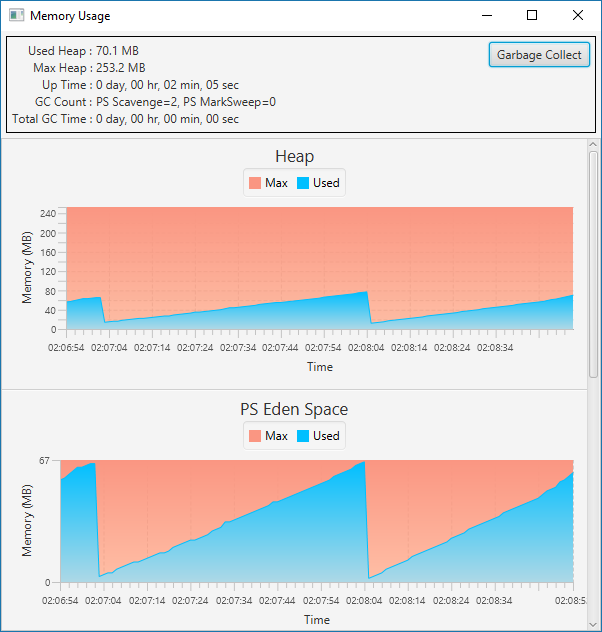
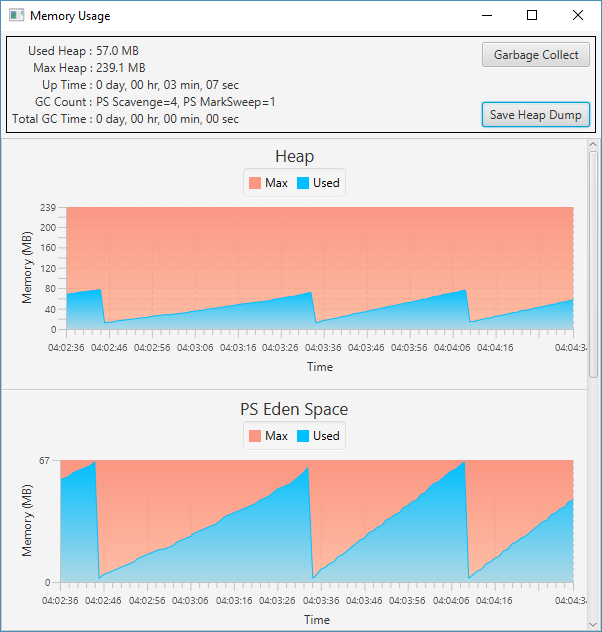
Added heap dump feature

diff --git a/src/main/java/MemoryViewPane.java b/src/main/java/MemoryViewPane.java
@@ -12,6 +12,7 @@ import javafx.scene.control.Button;
 import javafx.scene.control.Label;
 import javafx.scene.control.ScrollPane;
 import javafx.scene.control.Separator;
+import javafx.scene.layout.AnchorPane;
 import javafx.scene.layout.Border;
 import javafx.scene.layout.BorderPane;
 import javafx.scene.layout.BorderStroke;
@@ -24,7 +25,9 @@ import javafx.scene.layout.Priority;
 import javafx.scene.layout.VBox;
 import javafx.scene.paint.Color;
 import javafx.scene.text.TextAlignment;
+import javafx.stage.FileChooser;
 
+import java.io.File;
 import java.lang.management.GarbageCollectorMXBean;
 import java.lang.management.ManagementFactory;
 import java.lang.management.MemoryMXBean;
@@ -37,33 +40,32 @@ import java.util.List;
 
 public class MemoryViewPane extends BorderPane {
 
-    private Timeline animation;
-    private List<MemoryUsageChart> memoryUsageCharts = new ArrayList<>();
-    private StringProperty totalUsedHeap = new SimpleStringProperty();
-    private StringProperty gcCollectionCount = new SimpleStringProperty();
-    private StringProperty gcCollectionTime = new SimpleStringProperty();
-    private StringProperty maxHeap = new SimpleStringProperty();
-    private StringProperty uptTime = new SimpleStringProperty();
-    private MemoryMXBean memoryMBean;
+    private final Timeline animation;
+    private final List<MemoryUsageChart> memoryUsageCharts = new ArrayList<>();
+    private final StringProperty totalUsedHeap = new SimpleStringProperty();
+    private final StringProperty gcCollectionCount = new SimpleStringProperty();
+    private final StringProperty gcCollectionTime = new SimpleStringProperty();
+    private final StringProperty maxHeap = new SimpleStringProperty();
+    private final StringProperty uptTime = new SimpleStringProperty();
+    private final MemoryMXBean memoryMBean;
 
 
     public MemoryViewPane() {
         memoryMBean = ManagementFactory.getMemoryMXBean();
-        //setPadding(new Insets(5));
         setTop(createControlPanel());
-        VBox box = createMainContent();
+        Pane box = createMainContent();
         ScrollPane scrollPane = new ScrollPane(box);
         scrollPane.setFitToWidth(true);
         setCenter(scrollPane);
         final KeyFrame frame =
                 new KeyFrame(javafx.util.Duration.millis(1_000),
-                        (ActionEvent actionEvent) -> updateInformation());
+                        (ActionEvent actionEvent) -> updateHeapInformation());
         animation = new Timeline();
         animation.getKeyFrames().add(frame);
         animation.setCycleCount(Animation.INDEFINITE);
     }
 
-    private VBox createMainContent() {
+    private Pane createMainContent() {
         VBox box = new VBox();
         ObservableList<Node> vBoxChildren = box.getChildren();
 
@@ -89,13 +91,13 @@ public class MemoryViewPane extends BorderPane {
         VBox.setVgrow(memoryUsageChart, Priority.ALWAYS);
     }
 
-    private void updateInformation() {
+    private void updateHeapInformation() {
         MemoryUsage heapMemoryUsage = memoryMBean.getHeapMemoryUsage();
         long used = heapMemoryUsage.getUsed();
-        totalUsedHeap.setValue(formatSize(used));
+        totalUsedHeap.setValue(formatByteSize(used));
 
         long max = heapMemoryUsage.getMax();
-        maxHeap.setValue(formatSize(max));
+        maxHeap.setValue(formatByteSize(max));
 
         for (MemoryUsageChart memoryUsageChart : memoryUsageCharts) {
             memoryUsageChart.update();
@@ -121,11 +123,8 @@ public class MemoryViewPane extends BorderPane {
 
     }
 
-    private String formatSize(long sizeAsBytes){
-        return formatByteInformation(sizeAsBytes);
-    }
 
-    private static String formatByteInformation(long bytes) {
+    private static String formatByteSize(long bytes) {
         int unit =  1000;
         if (bytes < unit) return bytes + " B";
         int exp = (int) (Math.log(bytes) / Math.log(unit));
@@ -156,22 +155,47 @@ public class MemoryViewPane extends BorderPane {
     }
 
     private Pane createControlPanel() {
-
-        Pane leftPane = createLeftPane();
         BorderPane borderPane = new BorderPane();
-        Button garbageCollect = new Button("Garbage Collect");
-        garbageCollect.setOnAction(e -> System.gc());
-        borderPane.setLeft(leftPane);
-        borderPane.setRight(garbageCollect);
+        borderPane.setLeft(createLeftPane());
+        borderPane.setRight(createRightPane());
         borderPane.setPadding(new Insets(5, 5, 5, 5));
         Border border = new Border(new BorderStroke(Color.BLACK, BorderStrokeStyle.SOLID, CornerRadii.EMPTY, BorderWidths.DEFAULT, new Insets(5)));
         borderPane.setBorder(border);
-
         return borderPane;
     }
 
-    private Pane createLeftPane() {
+    private Pane createRightPane(){
+        AnchorPane anchorpane = new AnchorPane();
+        ObservableList<Node> children = anchorpane.getChildren();
 
+        Button garbageCollect = new Button("Garbage Collect");
+        garbageCollect.setOnAction(e -> System.gc());
+        AnchorPane.setTopAnchor(garbageCollect,0d);
+        AnchorPane.setRightAnchor(garbageCollect, 0.0);
+        AnchorPane.setLeftAnchor(garbageCollect, 0.0);
+        children.add(garbageCollect);
+
+        Button heapDump = new Button("Save Heap Dump");
+        heapDump.setOnAction(e -> saveHeapDump());
+        AnchorPane.setBottomAnchor(heapDump,0d);
+        AnchorPane.setRightAnchor(heapDump, 0.0);
+        AnchorPane.setLeftAnchor(heapDump, 0.0);
+        children.add(heapDump);
+
+        return anchorpane;
+    }
+
+    private void saveHeapDump() {
+        FileChooser fileChooser = new FileChooser();
+        fileChooser.setTitle("Save Image");
+        fileChooser.getExtensionFilters().add(new FileChooser.ExtensionFilter("Heap Dump File", "*.hprof"));
+        File file = fileChooser.showSaveDialog(getScene().getWindow());
+        if (file != null) {
+            HeapDumper.dumpHeap(file.getAbsolutePath());
+        }
+    }
+
+    private Pane createLeftPane() {
         GridPane gridPane = new GridPane();
 
         gridPane.add(createLabel("Used Heap : "), 0, 0);

diff --git a/src/main/java/HeapDumper.java b/src/main/java/HeapDumper.java
@@ -1,0 +1,48 @@
+import com.sun.management.HotSpotDiagnosticMXBean;
+
+import javax.management.MBeanServer;
+import java.lang.management.ManagementFactory;
+
+// From https://blogs.oracle.com/sundararajan/programmatically-dumping-heap-from-java-applications
+public class HeapDumper {
+    private static final String HOTSPOT_BEAN_NAME = "com.sun.management:type=HotSpotDiagnostic";
+    private static volatile HotSpotDiagnosticMXBean hotspotMBean;
+
+    static void dumpHeap(String fileName){
+        dumpHeap(fileName,true);
+    }
+
+    static void dumpHeap(String fileName, boolean live) {
+        initHotspotMBean();
+        try {
+            hotspotMBean.dumpHeap(fileName, live);
+        } catch (RuntimeException re) {
+            throw re;
+        } catch (Exception exp) {
+            throw new RuntimeException(exp);
+        }
+    }
+    // initialize the hotspot diagnostic MBean field
+    private static void initHotspotMBean() {
+        if (hotspotMBean == null) {
+            synchronized (HeapDumper.class) {
+                if (hotspotMBean == null) {
+                    hotspotMBean = getHotspotMBean();
+                }
+            }
+        }
+    }
+
+    private static HotSpotDiagnosticMXBean getHotspotMBean() {
+        try {
+            MBeanServer server = ManagementFactory.getPlatformMBeanServer();
+            HotSpotDiagnosticMXBean bean = ManagementFactory.newPlatformMXBeanProxy(server,
+                            HOTSPOT_BEAN_NAME, HotSpotDiagnosticMXBean.class);
+            return bean;
+        } catch (RuntimeException re) {
+            throw re;
+        } catch (Exception exp) {
+            throw new RuntimeException(exp);
+        }
+    }
+}
